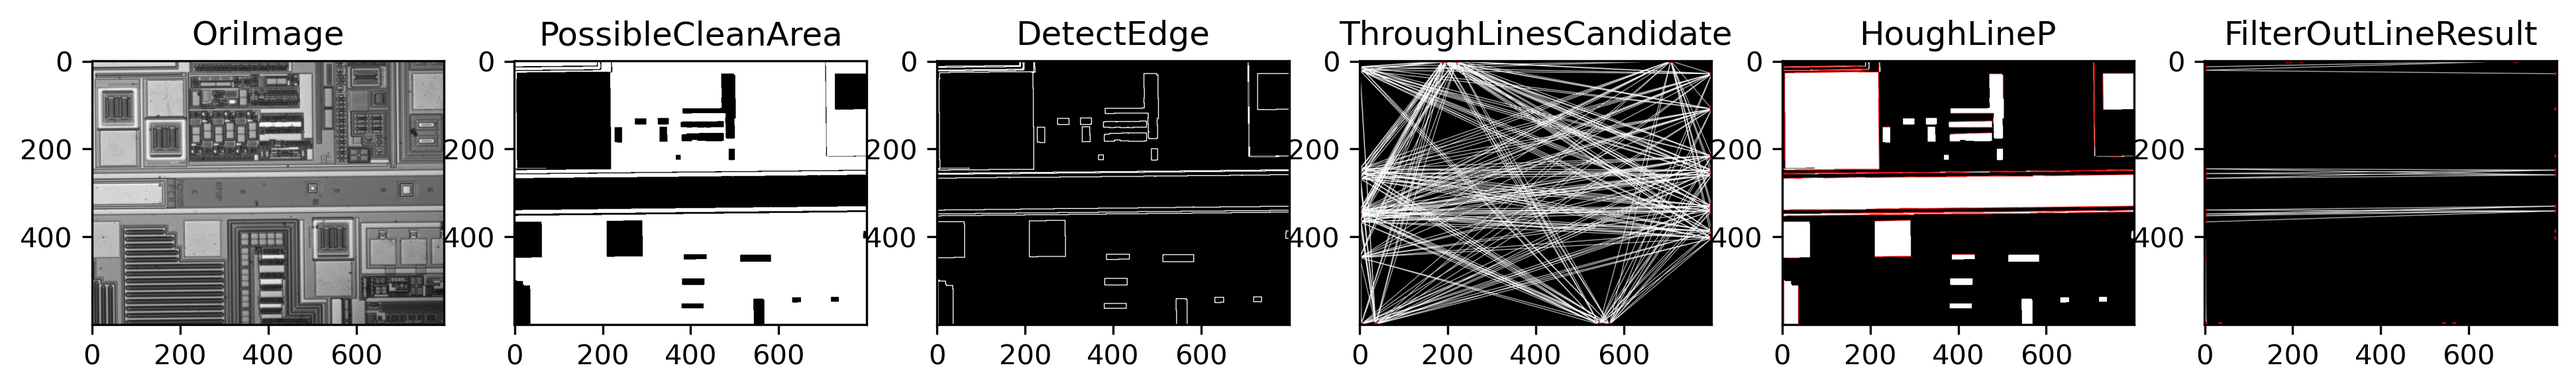
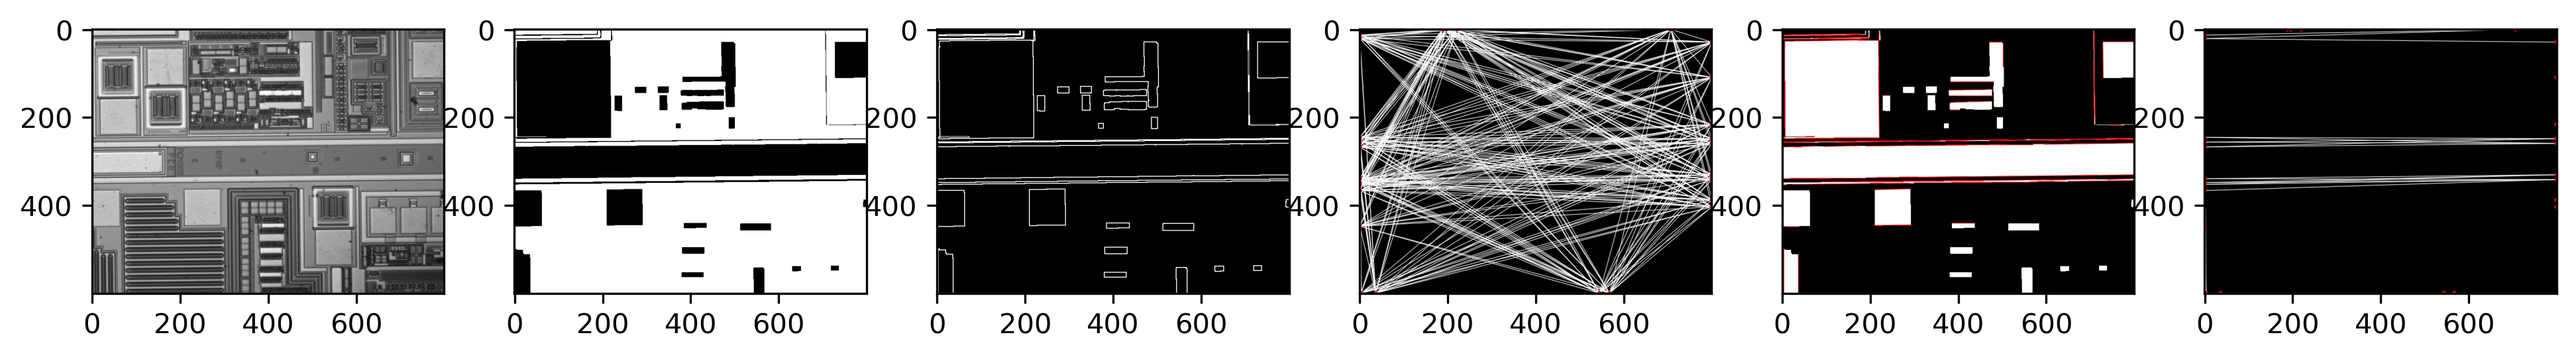
change_format_mid_output

diff --git a/detectors/detectPB.py b/detectors/detectPB.py
@@ -38,7 +38,7 @@ def MakeMidOutput(imageName, midOutput, showWindow, saveResult=False, outputDir=
     for kIndex, key in enumerate(midOutputKeys):
         midOutputImage = MidOutputToPyplot(midOutput[key])
         ax[kIndex].imshow(midOutputImage)
-        ax[kIndex].set_title(key)
+        # ax[kIndex].set_title(key)
 
     if showWindow:
         pyplot.show()
